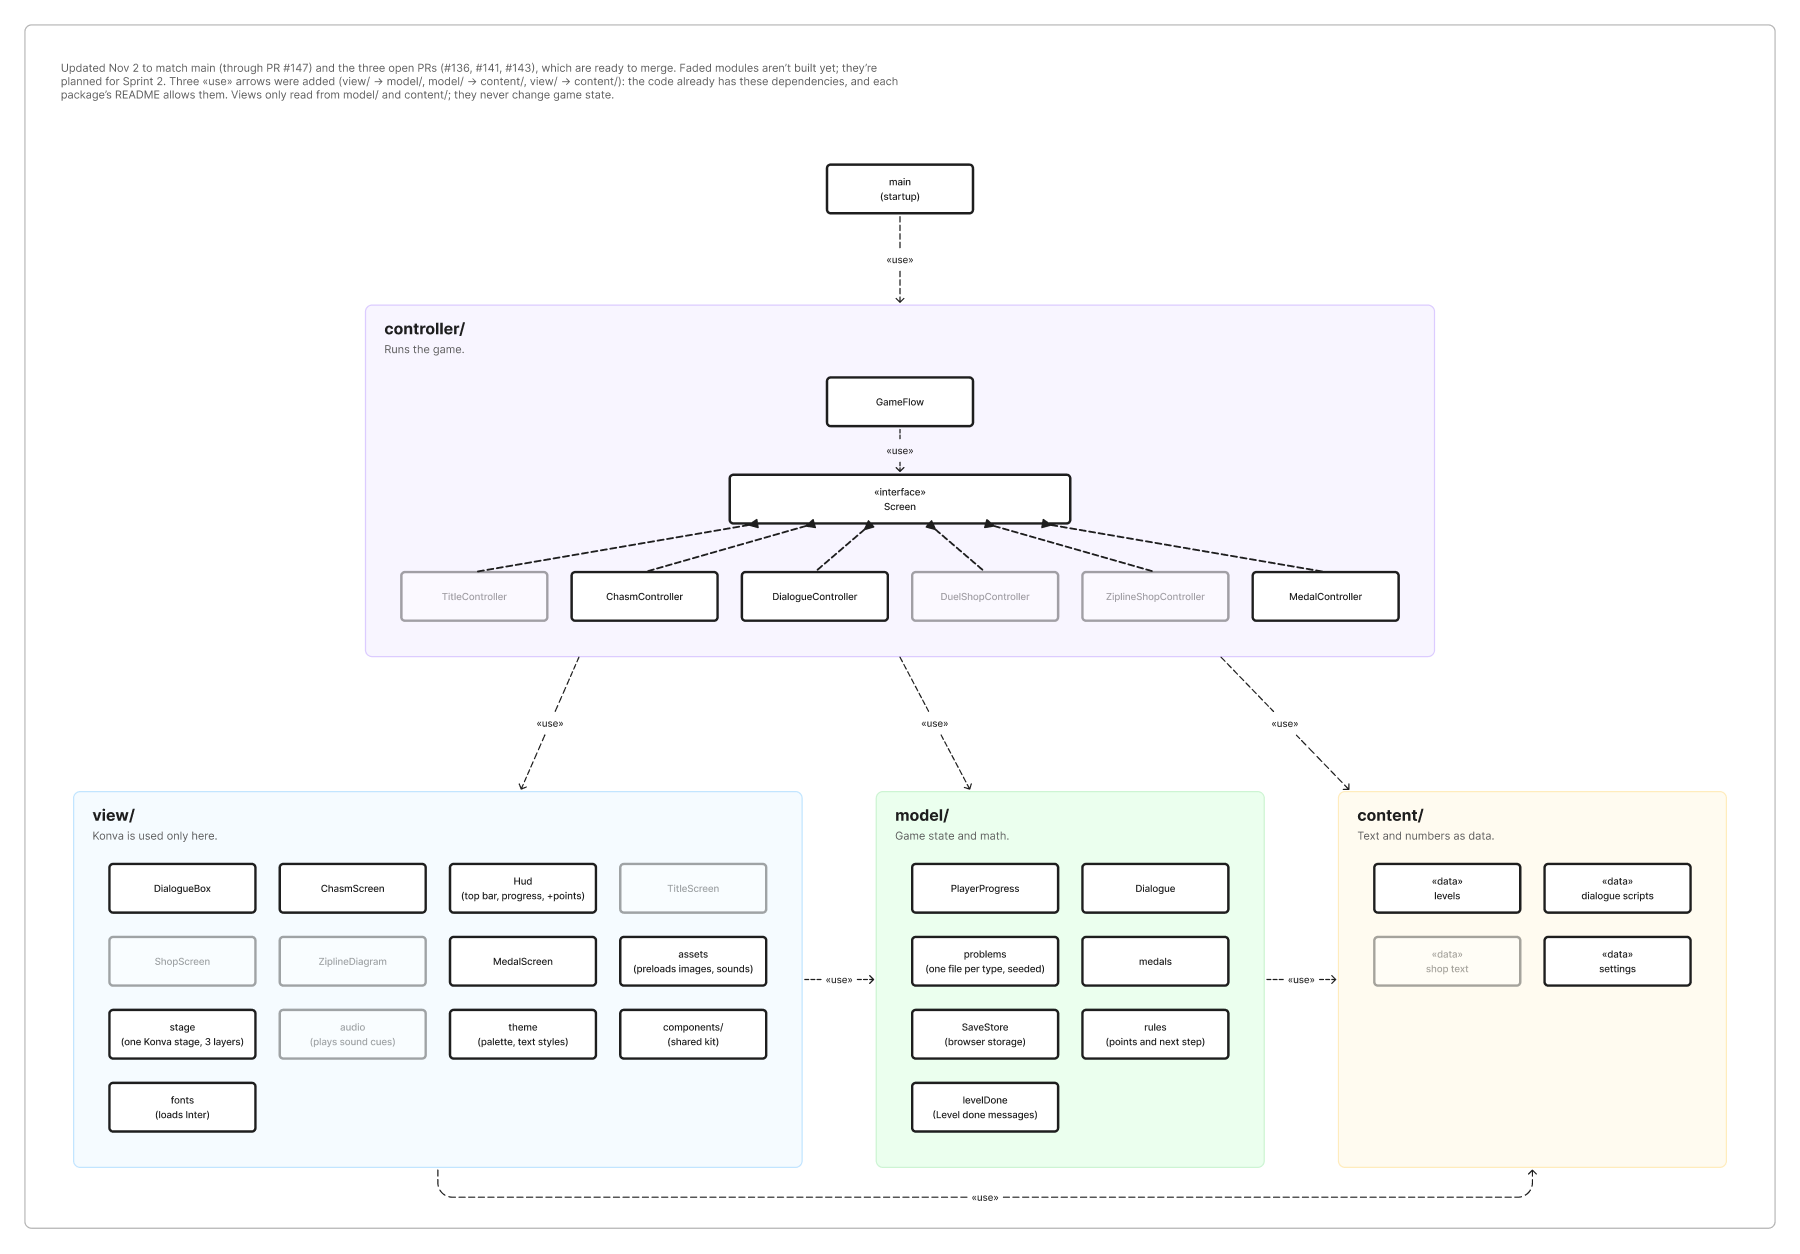
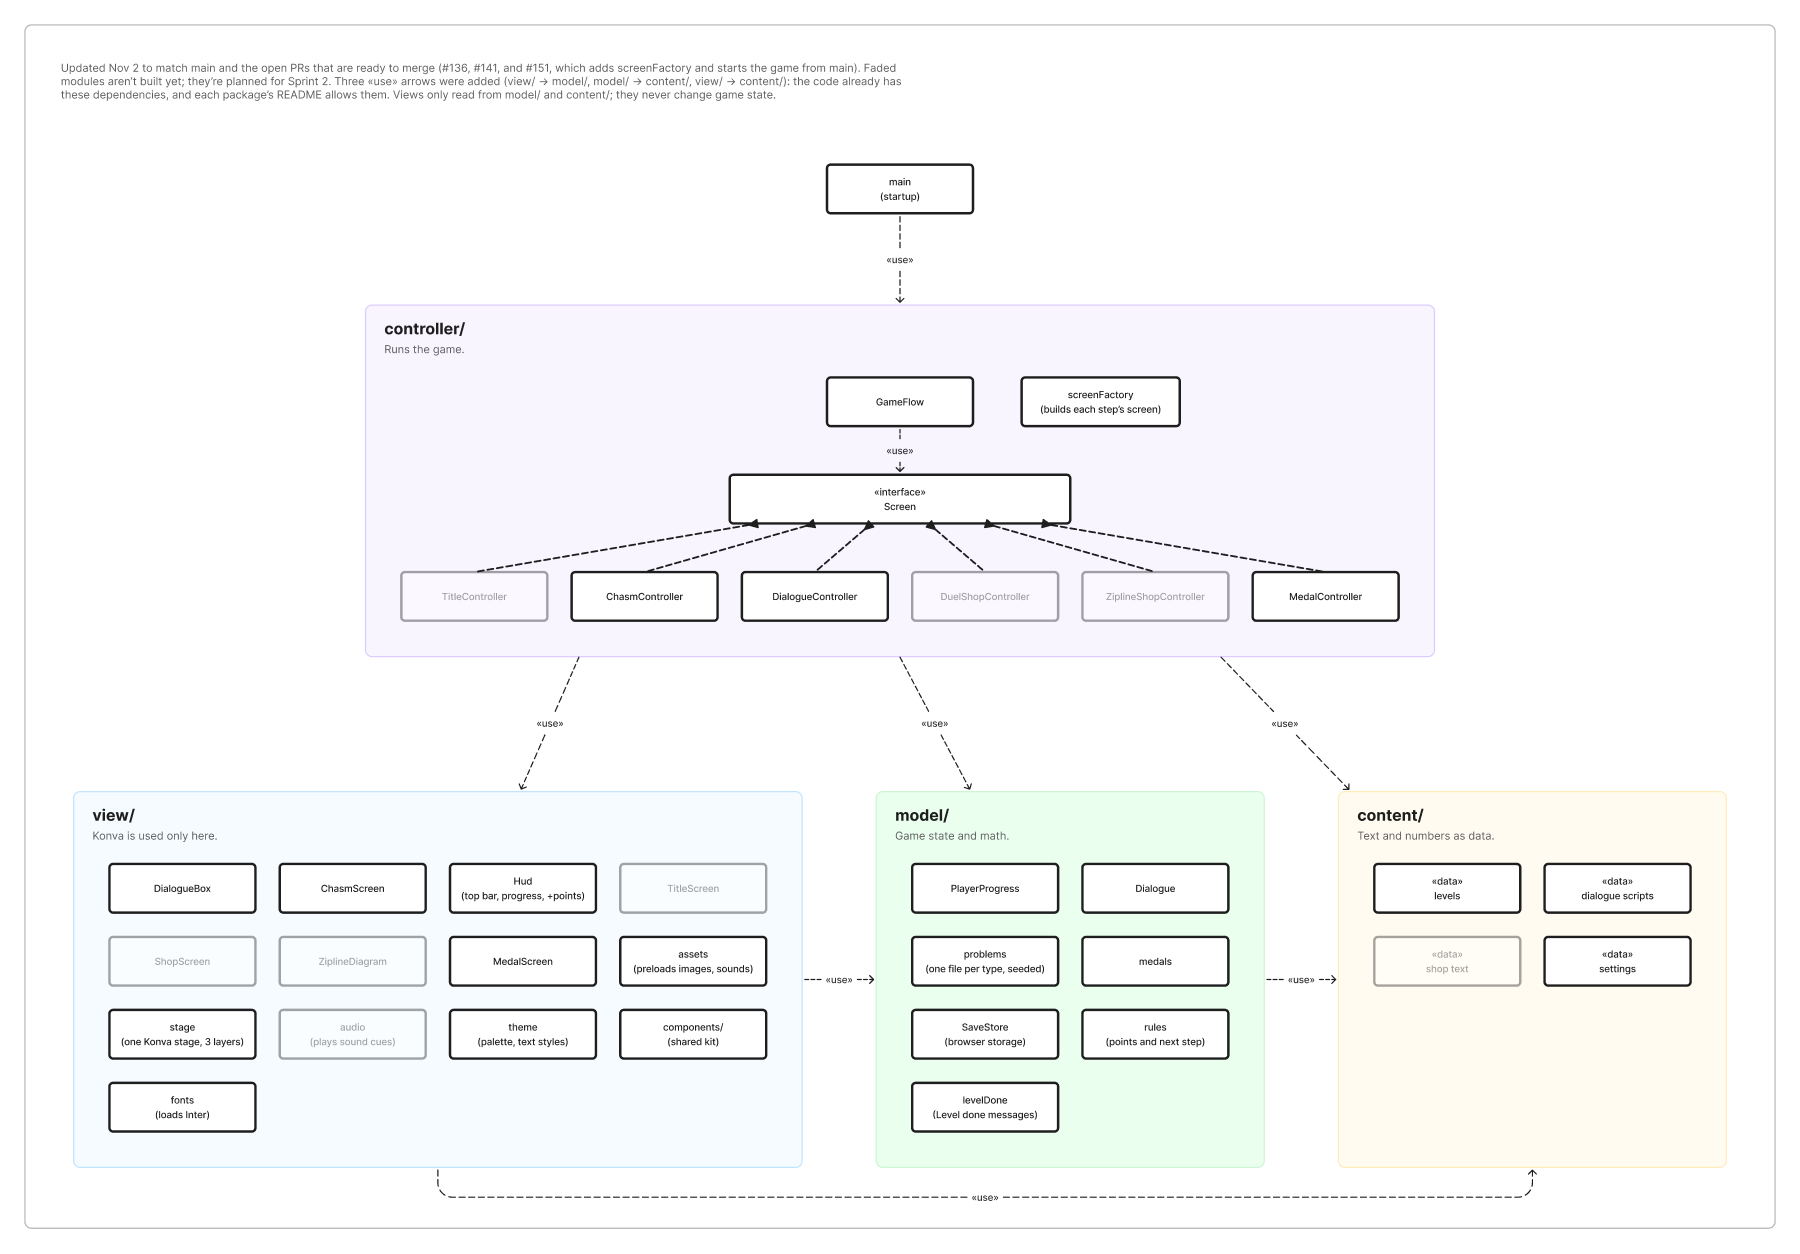
docs: describe the playable game and the screen factory in the READMEs
Updates the root, controller, content and model READMEs for #151: the game now plays from the title placeholder to the medal with npm run dev, main.ts starts GameFlow with the new screen factory, and the controller README gains a section on the factory. Also re-exports the module view with screenFactory added.

Changed region(s): [[0.0311, 0.0311, 0.4978, 0.0933], [0.56, 0.311, 0.6533, 0.3421]]

diff --git a/README.md b/README.md
@@ -20,11 +20,11 @@ We present a fun and educational game for all those 8th graders out there! Stude
 
 *Up-to-date as of November 2, 2026*
 
-We built and tested every piece of the core game, including the chasm problems and screen, the points and medals, the player's progress and its saving, the Hud, the dialogue, and GameFlow, which plays the game's steps in order with a controller for each screen. What we are currently working on is joining them in `main.ts`, which still draws only the game title. Until that lands, `npm run dev` shows the title and nothing more, and the quickest way to see the whole game's flow is `tests/controller/GameFlow.test.ts`.
+We built and tested every piece of the core game, including the chasm problems and screen, the points and medals, the player's progress and its saving, the Hud, the dialogue, and GameFlow, which plays the game's steps in order with a controller for each screen. The game now plays from start to finish: `npm run dev` opens on a placeholder title and runs through the intro, every chasm and Level done message, to the medal. What we are working on next is publishing it online (#9) and, in Sprint 2, the screens that teach the player after a wrong pick.
 
 What this means for our team:
    - **Model, view, and content code can be built and tested on its own.** (Nothing in those folders needs the game to be running.)
-   - **To see a screen you're working on**, draw it in `main.ts` on your own branch, and leave that change out of your PR.
+   - **To see a screen you're working on**, play the game with `npm run dev`. To jump straight to it, change the step `flow.run()` starts from in `main.ts` on your own branch, and leave that change out of your PR.
    - **To find something to pick up**, the [task dependencies](https://www.figma.com/design/gtavIfNmnKuW2m81SbVA6L) show what's merged, what's in review and what can start now, and the [project board](https://github.com/users/ilovelogic/projects/4) has every task.
 
 ---
@@ -92,9 +92,9 @@ These are grouped by what they're for. Each links to its section in the folder d
 5. **Running the game**:
    - [GameFlow](src/controller/README.md#gameflow): Plays every step in order, one screen at a time, and decides what happens after each one, including scoring a pick, restarting a level, and saving a checkpoint.
    - [The screen controllers](src/controller/README.md#the-screen-controllers): ChasmController, DialogueController and MedalController each run one kind of screen for GameFlow.
+   - [The screen factory](src/controller/README.md#the-screen-factory): Builds the right screen for each step GameFlow plays, including a placeholder title until the real title screen lands.
 
-**In progress**: joining everything in `main.ts`, so the game plays from the intro to the medal (#150).\
-**Next up**: publishing the game to GitHub Pages (#9), and, in Sprint 2, the title screen (#70), the sounds (#25), the "How to find the right log" screen (#48), and the shops.
+**Next up**: publishing the game to GitHub Pages (#9), and, in Sprint 2, the title screen with New game and Continue (#70), the sounds (#25), the screens after a wrong pick (#47, #48 and #49), and the shops.
 
 ---
 
@@ -110,7 +110,7 @@ We follow MVC, with a fourth folder for data. Each of these is a folder in `src/
 3. **[controller/](src/controller/README.md)**: Decides what happens next. GameFlow plays the game's steps one screen at a time, and every screen follows the same `Screen` contract. For each one, GameFlow starts it, and it reports back once, via `onDone`, with what the player chose.
 4. **[content/](src/content/README.md)**: Has the game's text and numbers as data, so changing the story or a point value never requires editing the game code itself.
 
-`main.ts` brings it all together. Today, it waits for the images and fonts and creates the stage. Next, it will create GameFlow, along with a screen for each kind of step, and start the game.
+`main.ts` brings it all together. It waits for the images and fonts, creates the stage, the Hud, and the player's progress, and then starts GameFlow, which gets each step's screen from the screen factory.
 
 **What may use what**\
 The arrows in the diagram are rules we follow: `controller/` may use the other three; `view/` may read `model/` and `content/`; `model/` may read `content/`; and `content/` uses nothing. Only `main.ts` uses `controller/`. Our reviews treat breaking one of these as a must-fix.
@@ -124,7 +124,7 @@ Screens report what the player chose, and only GameFlow can decide what that cho
 
 ```
 src/
-  main.ts          Starts it up: loads images and fonts, creates the stage
+  main.ts          Starts it up: loads images and fonts, then starts GameFlow
   model/           Game state and math (no Konva!)
   view/            Everything drawn with Konva
     components/    The shared button, log button, top bar and dialog box

diff --git a/src/controller/README.md b/src/controller/README.md
@@ -12,13 +12,14 @@ May import `model/`, `view/`, and `content/`. Nothing else imports from here exc
 - [Screen](#screen)
 - [GameFlow](#gameflow)
 - [The screen controllers](#the-screen-controllers)
+- [The screen factory](#the-screen-factory)
 - [Crossing one chasm, start to finish](#crossing-one-chasm-start-to-finish)
 
 ---
 
 ## Overview
 
-This is the folder that turns our separate screens into a game. It holds the `Screen` contract, GameFlow, which plays the game's steps, and a controller for each kind of screen built so far. The last piece is in `main.ts`, which still needs to create GameFlow with a screen for each step and start it.
+This is the folder that turns our separate screens into a game. It holds the `Screen` contract, GameFlow, which plays the game's steps, a controller for each kind of screen built so far, and the screen factory, which builds the right screen for each step. `main.ts` creates GameFlow with that factory and starts it.
 
 <img src="../../docs/images/cc-view.png" width="900" />\
 *The runtime (C&C) view, showing what talks to what while the game runs. Connector names match the code, and components marked "Not built yet" show the design. View the live version in [Figma](https://www.figma.com/design/LLtfHewfTMLycUXFUVuyEH).*
@@ -47,7 +48,7 @@ Runs the whole game by playing the steps in `content/levels` in order, one scree
 **What it's given**
    - `steps`: The game's script from `content/levels`.
    - `progress`: The player's `PlayerProgress`, new or loaded from a save.
-   - `makeScreen`: A function that turns a `ScreenRequest` into a `Screen`. A request is a step with everything its screen needs filled in, such as the chasm built from the game's seed, or the points earned on a level for its Level done message.
+   - `makeScreen`: A function that turns a `ScreenRequest` into a `Screen`. In the game, that's the [screen factory](#the-screen-factory). A request is a step with everything its screen needs filled in, such as the chasm built from the game's seed, or the points earned on a level for its Level done message.
    - **Options** (each optional, so tests pass only what they check): the Hud to keep up to date, a `save` function such as SaveStore's, and a `playCue` function for the sound after a pick.
 
 **After each screen**
@@ -71,6 +72,26 @@ Each one pairs a view from `view/` with the `Screen` contract:
    - **MedalController**: Works out the medal from the player's points with `model/medals`, has `MedalScreen` draw it, and reports `done` once when the player presses See Results. It reads the points when it starts, so it can be created before the last chasm is scored.
 
 **Still to come**: TitleController (#70), the controller for the "How to find the right log" screen (#48), and DuelShopController and ZiplineShopController for the two shop mini-games, planned for Sprint 2.
+
+---
+
+## The screen factory
+
+**Purpose**\
+Builds the screen for each step GameFlow plays, so GameFlow never needs to know which controller or view a step uses.
+
+**How it's used**\
+`main.ts` calls **`createScreenFactory`** once, with the stage's layers and the player's progress, and it returns the `makeScreen` function GameFlow is given. Each request then becomes its screen:
+   - **A chasm**: A `ChasmController` around a new `ChasmScreen` for that chasm.
+   - **A dialogue step**: A `DialogueController` playing the scene it names from `content/dialogueScripts`.
+   - **A Level done step**: A `DialogueController` playing `levelDoneLines(...)`, filled in with the level's points.
+   - **The medal**: A `MedalController`.
+
+**The title step**\
+Until the title screen (#70) exists, the title step plays `titlePlaceholder`, a one-box scene with the game's title and a Start button. Accordingly, #70 only has to replace this one case.
+
+**When something's wrong**\
+A dialogue step naming a scene that doesn't exist (e.g., a typo in `content/levels`) throws an error naming that scene, instead of handing `undefined` to the screen. A `never` check after the `switch` also means a new kind of step added to GameFlow without a case here stops the build, so the forgotten case is caught before it merges.
 
 ---
 

diff --git a/src/content/README.md b/src/content/README.md
@@ -41,7 +41,7 @@ Starts with the title, the intro, and the "how crossing works" scene, followed b
 ## dialogueScripts
 
 **Purpose**\
-Stores the story text, with one scene per key. Each scene is a list of boxes, and each box has a speaker and a line of text. Today, there are four scenes, which are `intro` (the avalanche and the missing friend), `howCrossingWorks` (how to pick a log), and the two Level done messages, `levelDoneAllPoints` and `levelDoneUnder100`. The Level done scenes mark where the level number goes with `{level}`, which `model/levelDone` fills in, so the same words serve every level.
+Stores the story text, with one scene per key. Each scene is a list of boxes, and each box has a speaker and a line of text. Today, there are five scenes, which are `intro` (the avalanche and the missing friend), `howCrossingWorks` (how to pick a log), the two Level done messages, `levelDoneAllPoints` and `levelDoneUnder100`, and `titlePlaceholder` (the game's title and a Start button, which stands in for the title screen until #70). The Level done scenes mark where the level number goes with `{level}`, which `model/levelDone` fills in, so the same words serve every level. The title placeholder isn't named by any step; the screen factory plays it for the title step.
 
 **Adding a scene**\
 Add a new key with its boxes, and then add a `dialogue` step naming that key in `levels`.

diff --git a/src/model/README.md b/src/model/README.md
@@ -123,7 +123,7 @@ Turns the final points into a medal, which is diamond, gold, silver, bronze, or 
 Puts one checkpoint into the browser's storage and gets it back, so closing the tab doesn't lose the player's progress.
 
 **The storage is passed in**\
-In the game, `main.ts` will pass in the browser's `localStorage`. In the tests, a pretend storage stands in, one that can be empty, hold garbage, or refuse to work, so every failure case is tested without a browser.
+In the game, `main.ts` passes in the browser's `localStorage`. In the tests, a pretend storage stands in, one that can be empty, hold garbage, or refuse to work, so every failure case is tested without a browser.
 
 **When something goes wrong**\
 **`save`** fails quietly if storage is blocked. **`load`** returns `null` when there's no save, when the save can't be read, or when it isn't a valid save, since it checks each one with `PlayerProgress.fromJSON`. As a result, anything `load` does return is safe to continue from.
